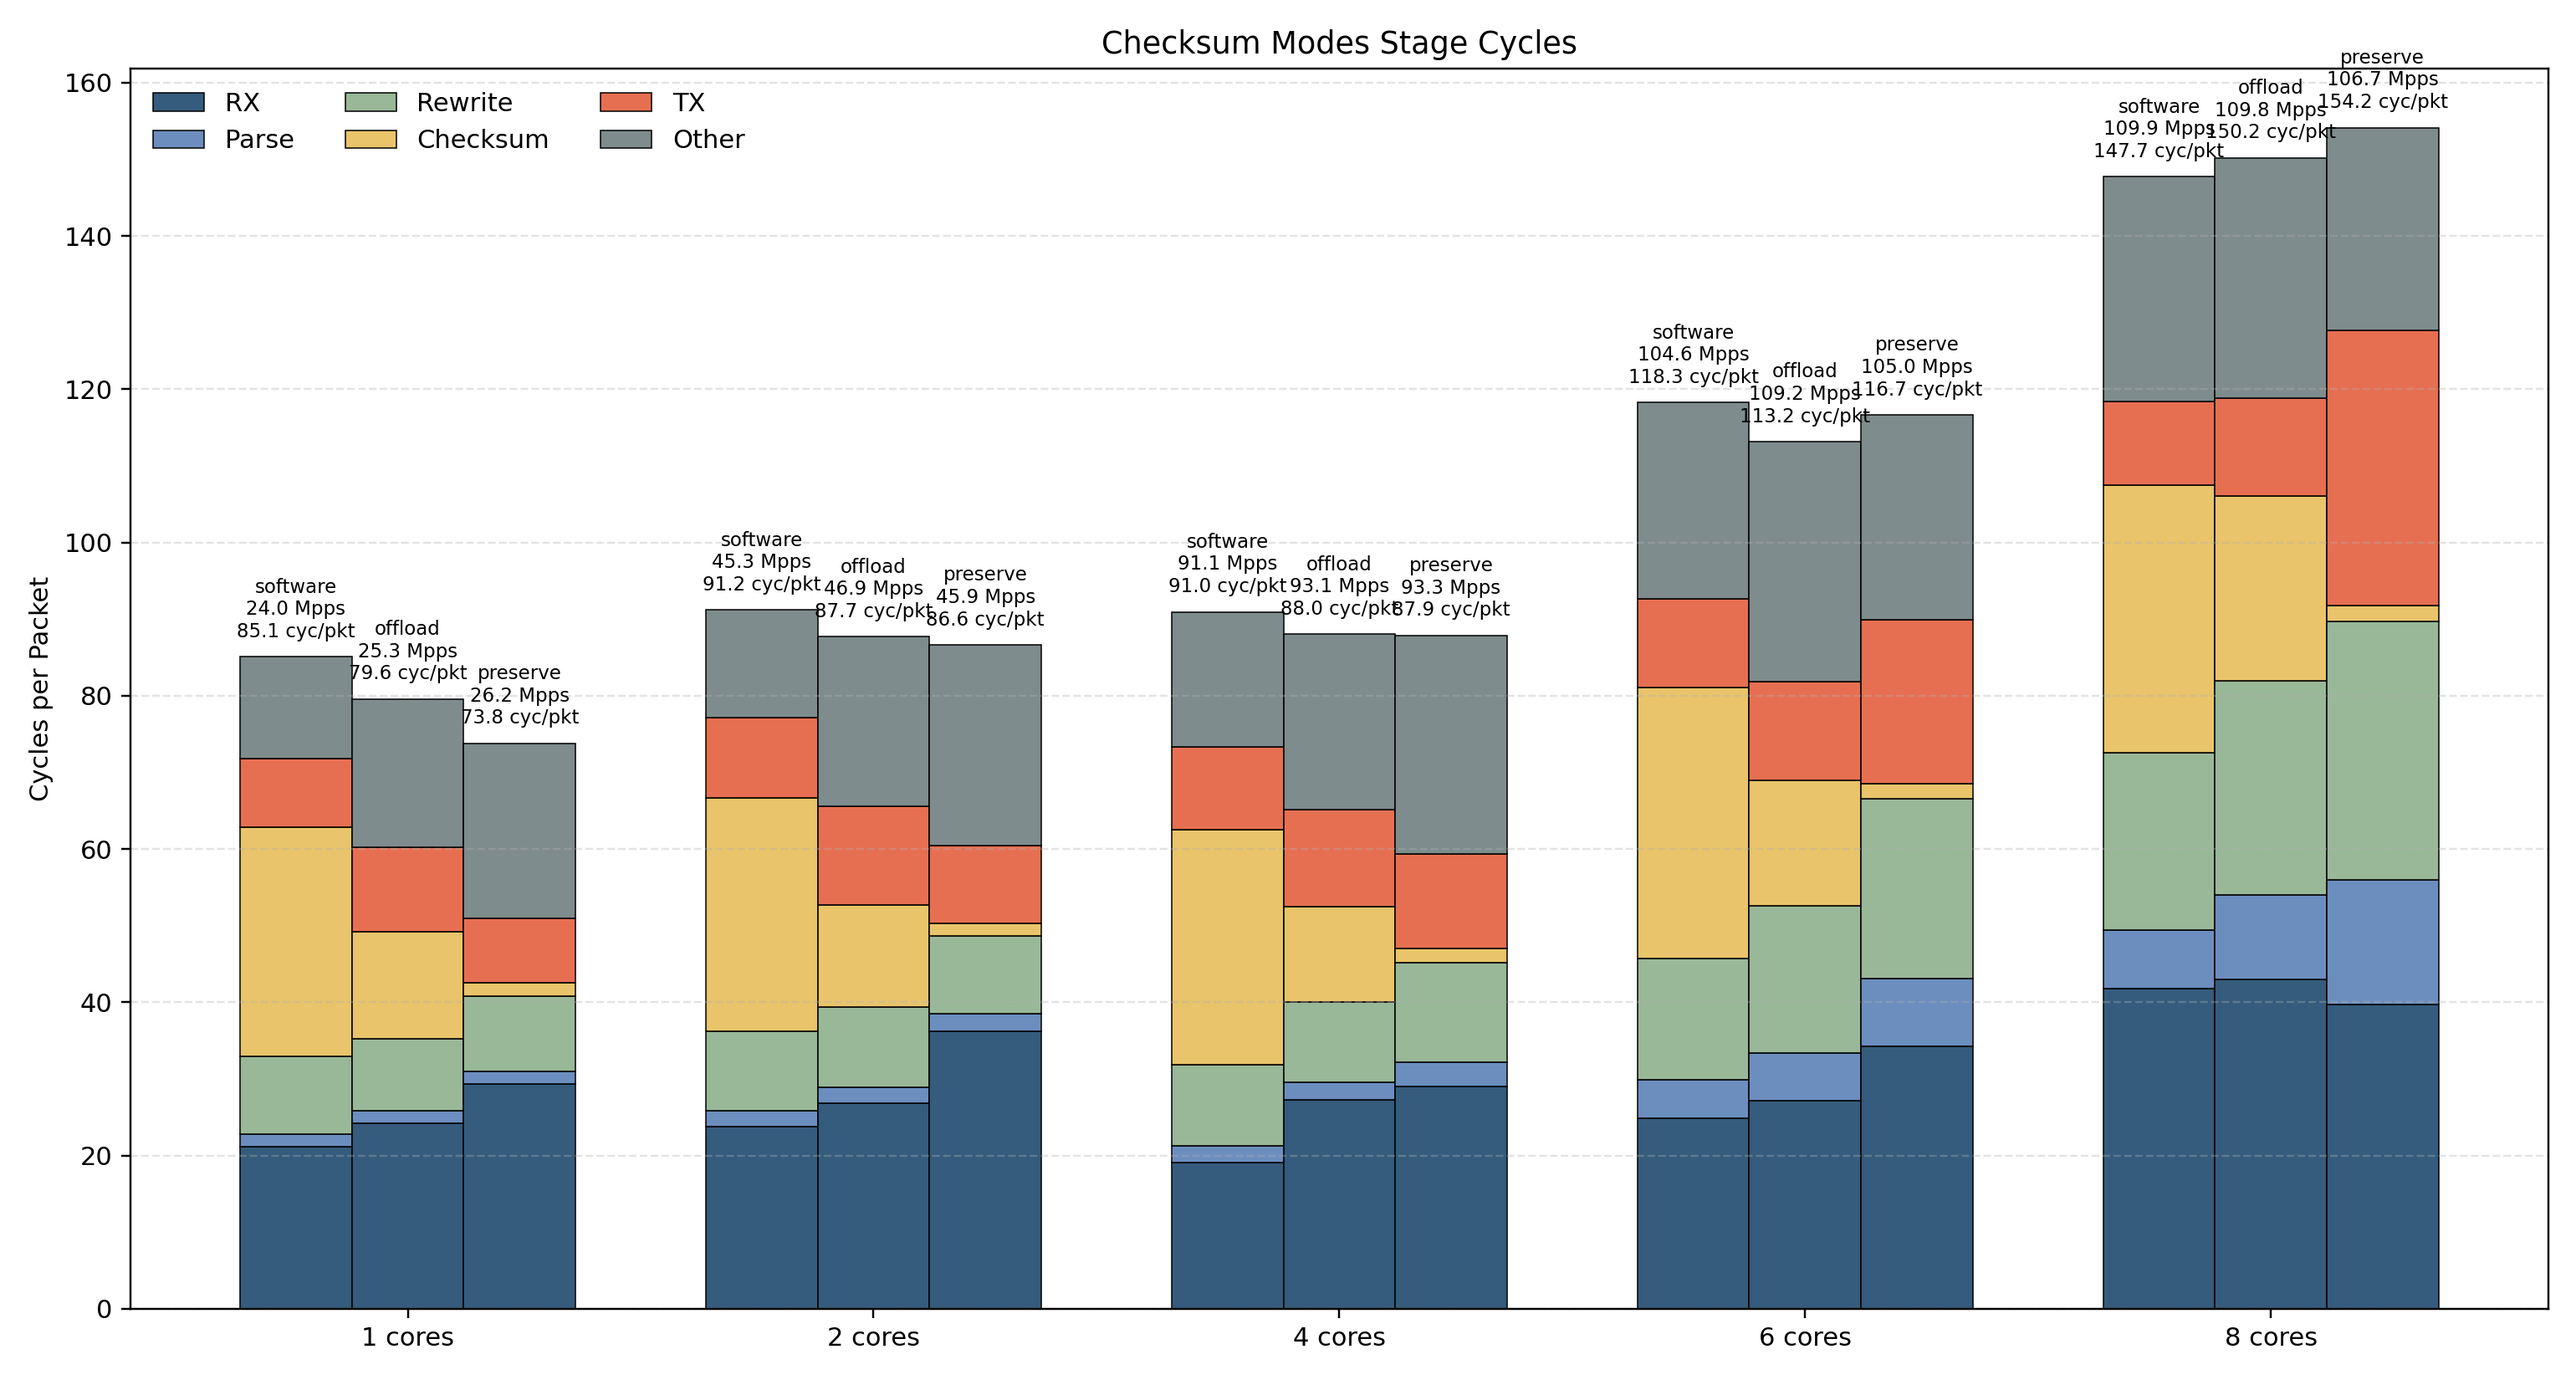
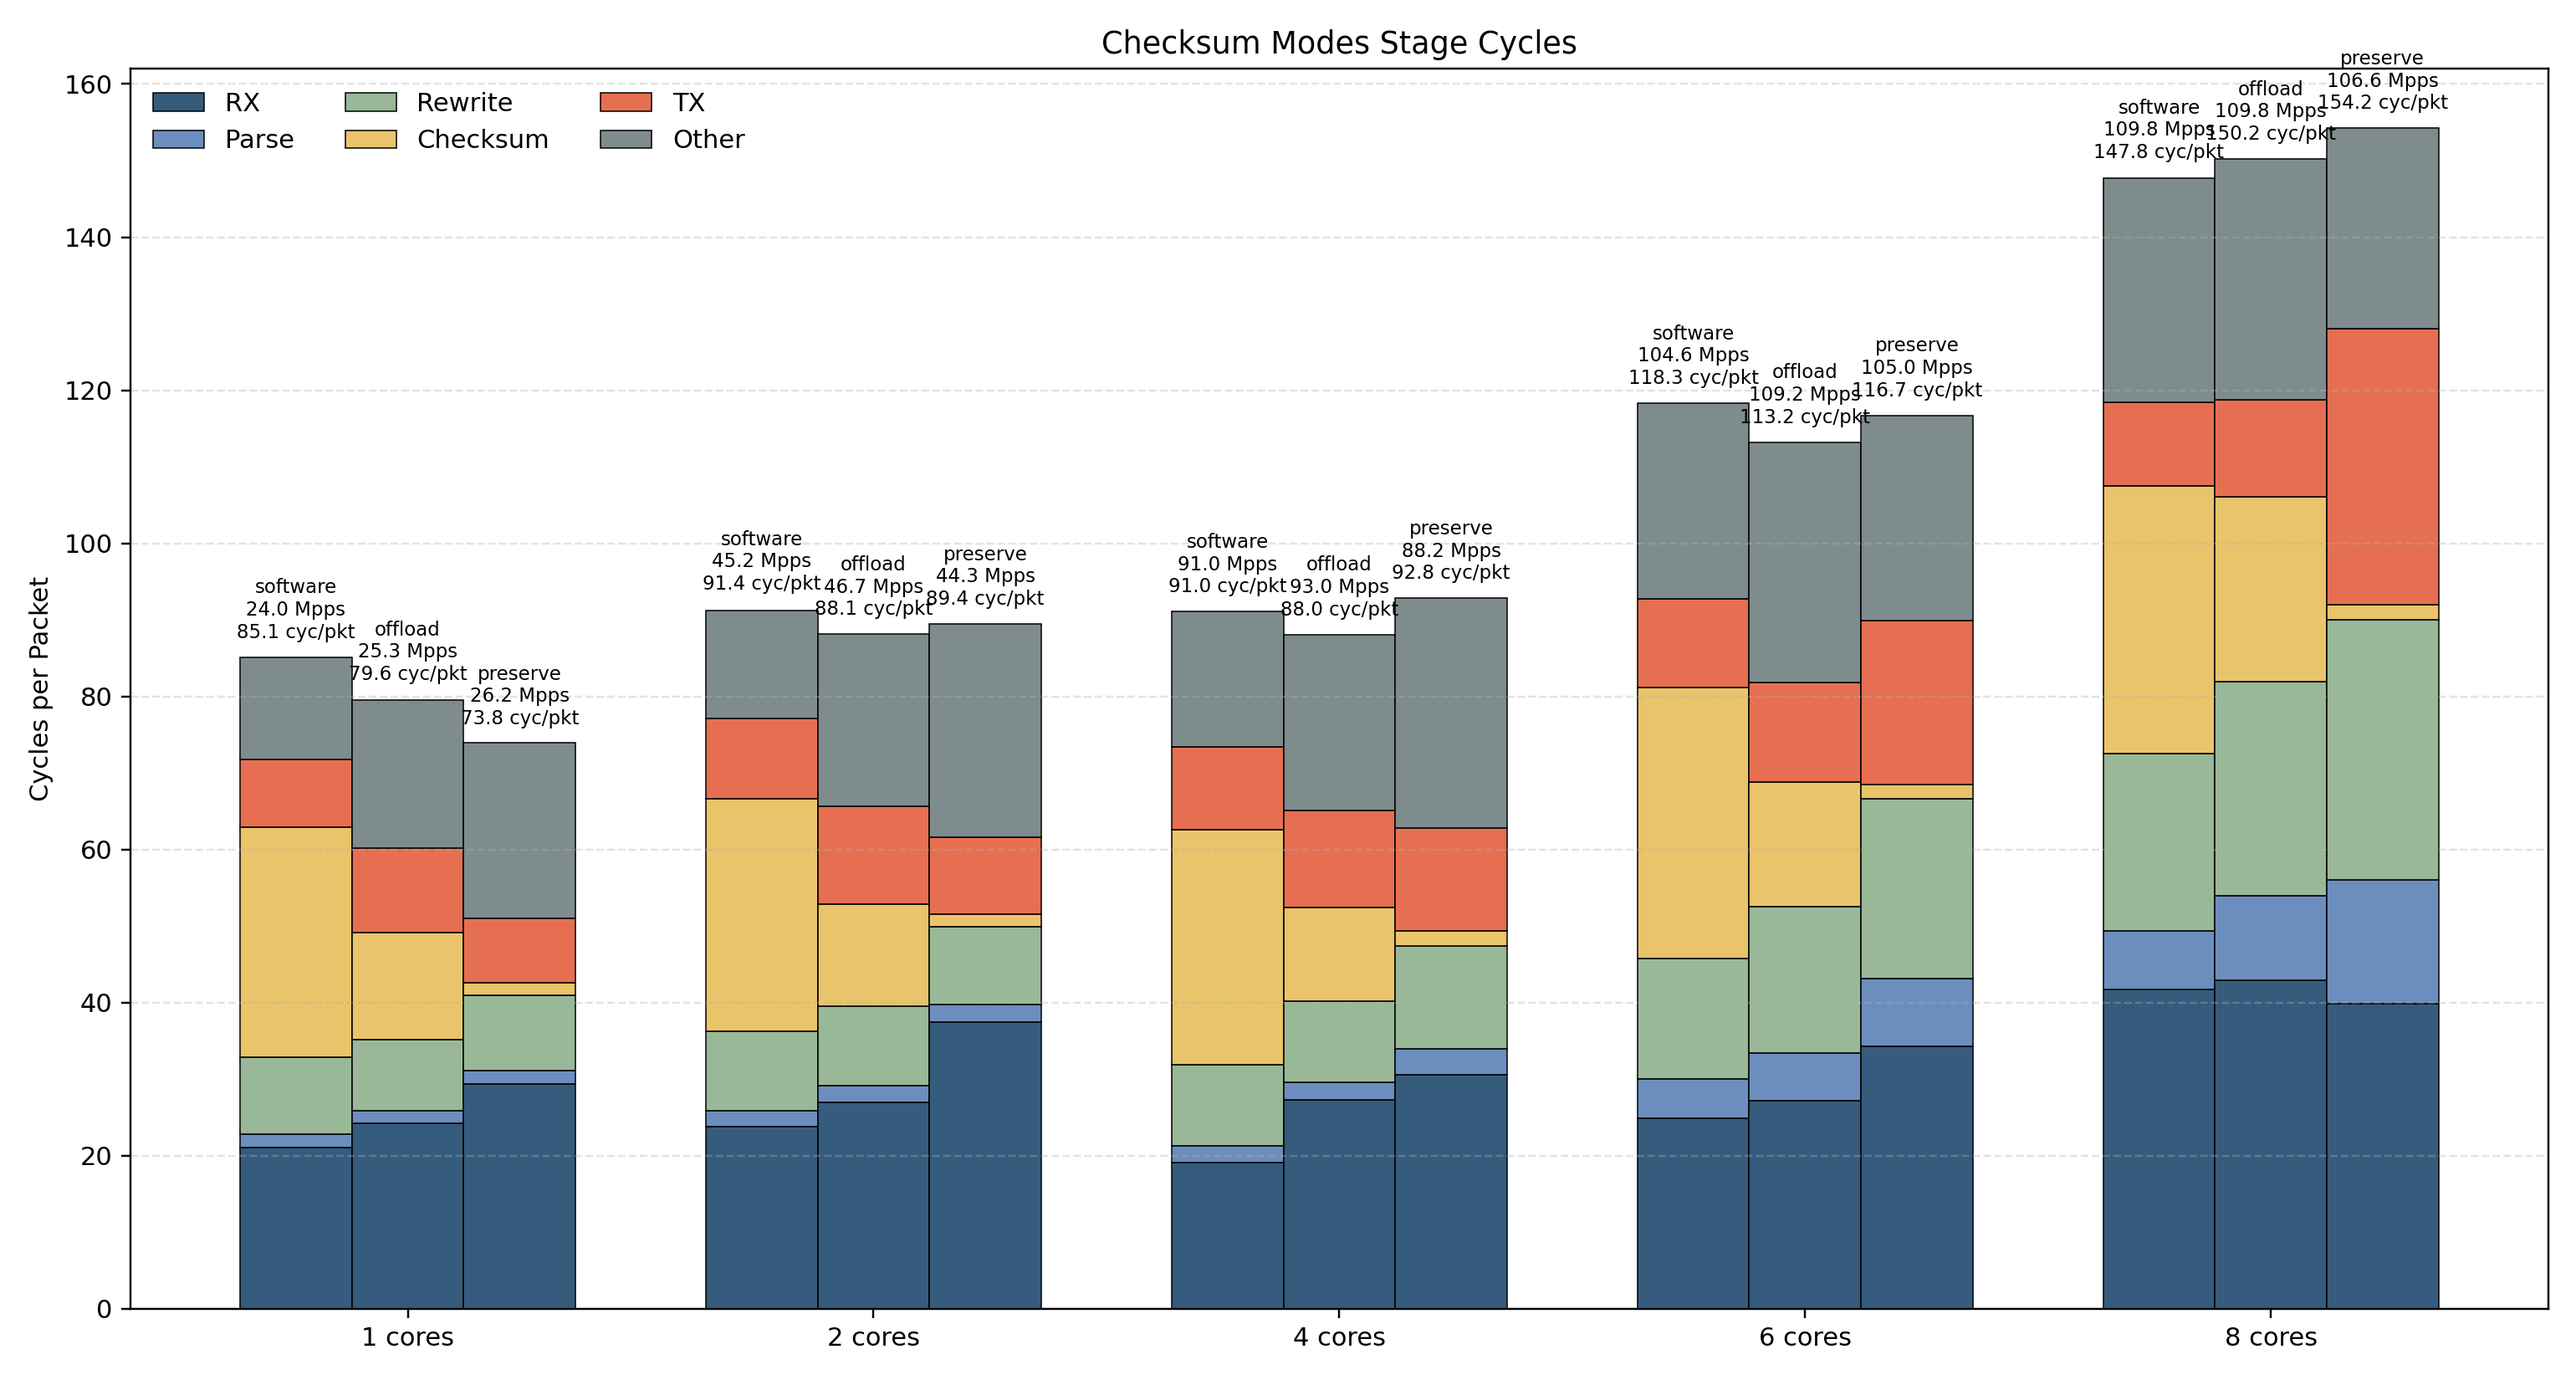
bigger ring and burst

diff --git a/analysis/plot_checksum_modes_comparison.py b/analysis/plot_checksum_modes_comparison.py
@@ -3,6 +3,7 @@ import argparse
 import csv
 import os
 import re
+import statistics
 from pathlib import Path
 
 os.environ.setdefault("MPLCONFIGDIR", str(Path("/tmp/matplotlib-cache")))
@@ -102,11 +103,115 @@ def weighted_average(samples, field: str, weight_field: str = "rx_pkts"):
     return sum(sample[field] * sample[weight_field] for sample in samples) / total_weight
 
 
-def summarize_log(mode: str, log_path: Path):
+def summarize_round(mode: str, log_path: Path, cores: int, round_samples):
+    rx_pkts = sum(sample["rx_pkts"] for sample in round_samples)
+    summary = {
+        "mode": mode,
+        "cores": cores,
+        "rx_mpps": sum(sample["rx_mpps"] for sample in round_samples),
+        "tx_mpps": sum(sample["tx_mpps"] for sample in round_samples),
+        "rx_pkts": rx_pkts,
+        "tx_pkts": sum(sample["tx_pkts"] for sample in round_samples),
+        "tx_drops": sum(sample["tx_drops"] for sample in round_samples),
+        "total_cycles_per_pkt": weighted_average(round_samples, "total_cycles_per_pkt"),
+        "queues_seen": "|".join(str(int(sample["queue_id"])) for sample in round_samples),
+        "sample_lines": "|".join(str(sample["line_no"]) for sample in round_samples),
+        "selection_rounds": 1,
+        "selection_drop_pct": 0.0,
+        "log_path": str(log_path),
+    }
+    summary["selection_drop_pct"] = (
+        summary["tx_drops"] / rx_pkts * 100.0 if rx_pkts else 0.0
+    )
+    for csv_name, _profile_name, _label in STAGES:
+        summary[csv_name] = weighted_average(round_samples, csv_name)
+
+    return summary
+
+
+def median_summaries(mode: str, log_path: Path, cores: int, round_summaries):
+    summary = {
+        "mode": mode,
+        "cores": cores,
+        "queues_seen": ";".join(item["queues_seen"] for item in round_summaries),
+        "sample_lines": ";".join(item["sample_lines"] for item in round_summaries),
+        "selection_rounds": len(round_summaries),
+        "log_path": str(log_path),
+    }
+
+    numeric_fields = [
+        "rx_mpps",
+        "tx_mpps",
+        "rx_pkts",
+        "tx_pkts",
+        "tx_drops",
+        "total_cycles_per_pkt",
+        "selection_drop_pct",
+    ]
+    numeric_fields += [csv_name for csv_name, _profile_name, _label in STAGES]
+    for field in numeric_fields:
+        summary[field] = statistics.median(item[field] for item in round_summaries)
+
+    return summary
+
+
+def choose_round_summary(mode: str,
+                         log_path: Path,
+                         cores: int,
+                         loaded_rounds,
+                         selection: str,
+                         top_n: int,
+                         max_drop_pct: float,
+                         min_rx_ratio: float):
+    round_summaries = [
+        summarize_round(mode, log_path, cores, round_samples)
+        for round_samples in loaded_rounds
+    ]
+
+    if selection == "peak":
+        return max(
+            round_summaries,
+            key=lambda item: (item["rx_pkts"], item["rx_mpps"]),
+        )
+
+    peak_rx_mpps = max(item["rx_mpps"] for item in round_summaries)
+    high_load = [
+        item for item in round_summaries
+        if item["rx_mpps"] >= peak_rx_mpps * min_rx_ratio
+    ]
+    if not high_load:
+        high_load = round_summaries
+
+    eligible = [
+        item for item in high_load
+        if item["selection_drop_pct"] <= max_drop_pct
+    ]
+    if not eligible:
+        eligible = sorted(
+            high_load,
+            key=lambda item: (item["selection_drop_pct"], -item["rx_mpps"]),
+        )[:max(top_n, 1)]
+    else:
+        eligible = sorted(
+            eligible,
+            key=lambda item: item["rx_mpps"],
+            reverse=True,
+        )[:max(top_n, 1)]
+
+    return median_summaries(mode, log_path, cores, eligible)
+
+
+def summarize_log(mode: str,
+                  log_path: Path,
+                  selection: str,
+                  top_n: int,
+                  max_drop_pct: float,
+                  min_rx_ratio: float):
     samples = []
-    for line in log_path.read_text().splitlines():
+    for line_no, line in enumerate(log_path.read_text().splitlines(), 1):
         sample = parse_profile_line(line)
         if sample:
+            sample["line_no"] = line_no
             samples.append(sample)
 
     if not samples:
@@ -121,30 +226,16 @@ def summarize_log(mode: str, log_path: Path):
     if not loaded_rounds:
         raise ValueError(f"No loaded complete profile rounds found in {log_path}")
 
-    best_round = max(
+    return choose_round_summary(
+        mode,
+        log_path,
+        cores,
         loaded_rounds,
-        key=lambda round_samples: (
-            sum(sample["rx_pkts"] for sample in round_samples),
-            sum(sample["rx_mpps"] for sample in round_samples),
-        ),
+        selection,
+        top_n,
+        max_drop_pct,
+        min_rx_ratio,
     )
-
-    summary = {
-        "mode": mode,
-        "cores": cores,
-        "rx_mpps": sum(sample["rx_mpps"] for sample in best_round),
-        "tx_mpps": sum(sample["tx_mpps"] for sample in best_round),
-        "rx_pkts": sum(sample["rx_pkts"] for sample in best_round),
-        "tx_pkts": sum(sample["tx_pkts"] for sample in best_round),
-        "tx_drops": sum(sample["tx_drops"] for sample in best_round),
-        "total_cycles_per_pkt": weighted_average(best_round, "total_cycles_per_pkt"),
-        "queues_seen": "|".join(str(int(sample["queue_id"])) for sample in best_round),
-        "log_path": str(log_path),
-    }
-    for csv_name, _profile_name, _label in STAGES:
-        summary[csv_name] = weighted_average(best_round, csv_name)
-
-    return summary
 
 
 def find_logs(raw_root: Path, modes):
@@ -167,6 +258,8 @@ def write_csv(summaries, output_path: Path):
         "rx_pkts",
         "tx_pkts",
         "tx_drops",
+        "selection_drop_pct",
+        "selection_rounds",
         "total_cycles_per_pkt",
         "rx_cycles_per_pkt",
         "parse_cycles_per_pkt",
@@ -175,6 +268,7 @@ def write_csv(summaries, output_path: Path):
         "tx_cycles_per_pkt",
         "other_cycles_per_pkt",
         "queues_seen",
+        "sample_lines",
         "log_path",
     ]
 
@@ -286,10 +380,52 @@ def main():
         default="Checksum Modes Stage Cycles",
         help="Plot title.",
     )
+    parser.add_argument(
+        "--selection",
+        choices=["stable-median", "peak"],
+        default="stable-median",
+        help=(
+            "stable-median selects low-drop high-throughput rounds and reports "
+            "their median; peak selects the highest-throughput complete queue "
+            "round for debugging."
+        ),
+    )
+    parser.add_argument(
+        "--top-n",
+        type=int,
+        default=3,
+        help="Number of top stable rounds to include for --selection=stable-median.",
+    )
+    parser.add_argument(
+        "--max-drop-pct",
+        type=float,
+        default=0.001,
+        help=(
+            "Maximum TX drop percentage for a stable round. If no rounds pass, "
+            "the lowest-drop rounds are used instead."
+        ),
+    )
+    parser.add_argument(
+        "--min-rx-ratio",
+        type=float,
+        default=0.8,
+        help=(
+            "For --selection=stable-median, only consider rounds with rx_mpps "
+            "at least this fraction of the mode/core peak before applying the "
+            "drop filter."
+        ),
+    )
     args = parser.parse_args()
 
     summaries = [
-        summarize_log(mode, path)
+        summarize_log(
+            mode,
+            path,
+            args.selection,
+            args.top_n,
+            args.max_drop_pct,
+            args.min_rx_ratio,
+        )
         for mode, path in find_logs(args.raw_root, args.modes)
     ]
     write_csv(summaries, args.summary_csv)

diff --git a/app/dpdk.h b/app/dpdk.h
@@ -11,12 +11,18 @@
 #include <rte_mbuf.h>
 #include <rte_udp.h>
 
-#define RX_RING_SIZE 128
-#define TX_RING_SIZE 128
+#ifndef RX_RING_SIZE
+#define RX_RING_SIZE 512
+#endif
+#ifndef TX_RING_SIZE
+#define TX_RING_SIZE 512
+#endif
 
 #define NUM_MBUFS 8191
 #define MBUF_CACHE_SIZE 250
-#define BURST_SIZE 32
+#ifndef BURST_SIZE
+#define BURST_SIZE 64
+#endif
 #define MAX_CORES 64
 #define UDP_MAX_PAYLOAD 1472
 #define MAX_SAMPLES (10*1000*1000)
